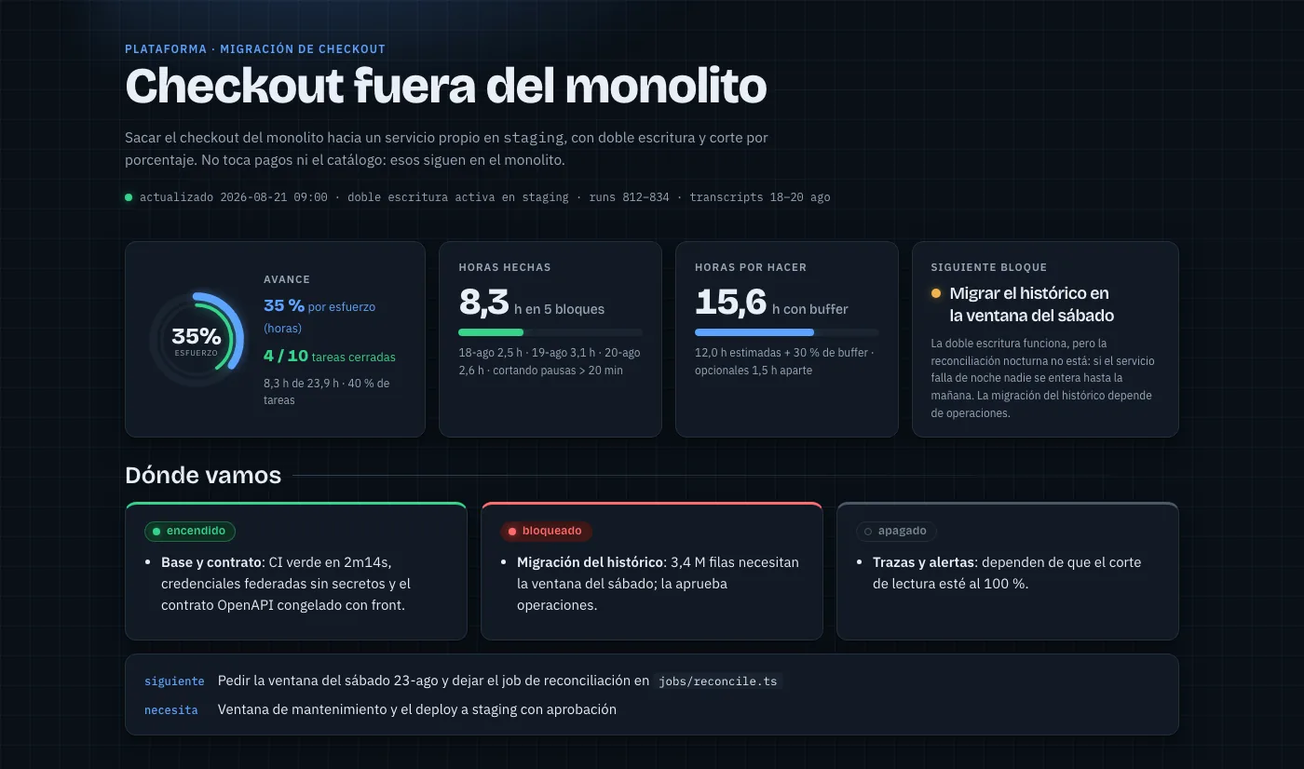
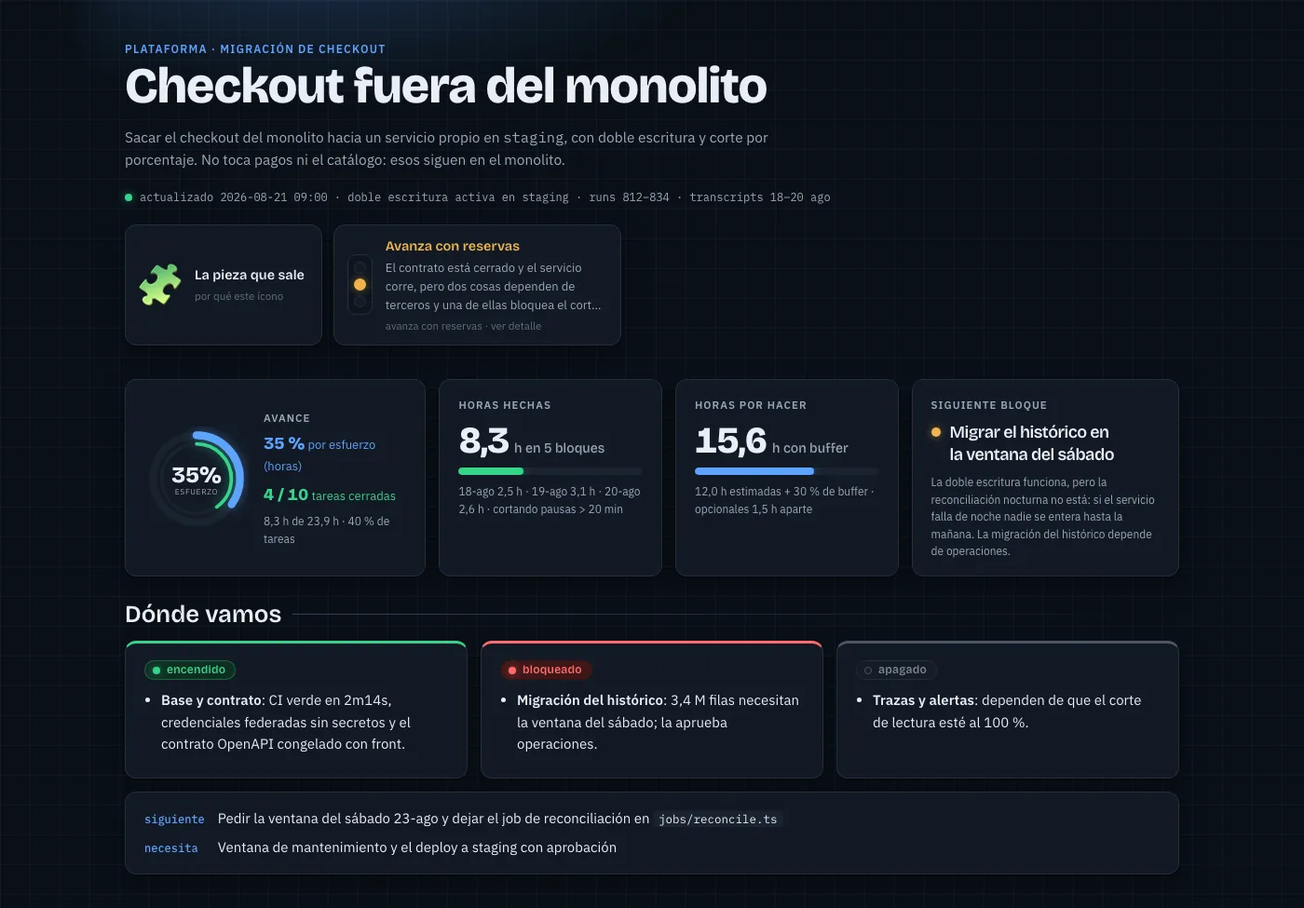
feat(sello): emblema con su porqué y semáforo de contexto en el header

diff --git a/demo/index.html b/demo/index.html
@@ -90,6 +90,47 @@ header.top .sub{color:var(--muted);margin-top:12px;max-width:78ch;font-size:15.5
 .stamp{display:inline-flex;gap:8px;align-items:center;font-size:12px;color:var(--muted);margin-top:10px;font-family:var(--font-mono)}
 .stamp .dot{width:8px;height:8px;border-radius:50%;background:var(--on);box-shadow:0 0 10px var(--on-glow);animation:pulse 2.2s ease-in-out infinite}
 
+/* ---------- sello: emblema y semáforo de contexto ---------- */
+.sello{display:flex;gap:12px;align-items:stretch;flex-wrap:wrap;margin-top:18px}
+.sello button{font:inherit;color:inherit;text-align:left;cursor:pointer;background:var(--surface);border:1px solid var(--line);border-radius:12px;box-shadow:var(--shadow);transition:border-color .2s,transform .15s}
+.sello button:hover{border-color:var(--line-strong)}
+.sello button:active{transform:translateY(1px)}
+.sello button:focus-visible{outline:2px solid var(--accent);outline-offset:2px}
+.emblem{display:flex;align-items:center;gap:14px;padding:12px 18px 12px 14px}
+.emblem .emo{font-size:46px;line-height:1;filter:drop-shadow(0 2px 8px rgba(0,0,0,.25))}
+.emblem .emo-txt{display:flex;flex-direction:column;gap:2px;font-size:13px;color:var(--muted);max-width:26ch}
+.emblem .emo-txt b{font-family:var(--font-display);font-size:14.5px;color:var(--ink);font-weight:600}
+.emblem .emo-txt span{font-size:11.5px;color:var(--faint)}
+.tl{display:flex;align-items:center;gap:14px;padding:12px 18px 12px 14px}
+.lights{display:flex;flex-direction:column;gap:5px;padding:7px 6px;background:var(--bg-2);border:1px solid var(--line);border-radius:9px;flex:none}
+.lights i{width:13px;height:13px;border-radius:50%;background:var(--off-soft);border:1px solid var(--line);transition:background .3s,box-shadow .3s}
+.tl[data-ctx="rojo"] .lights i.r{background:var(--bad);border-color:transparent;box-shadow:0 0 10px var(--bad-glow);animation:blink 1.6s steps(1) infinite}
+.tl[data-ctx="amarillo"] .lights i.y{background:var(--warn);border-color:transparent;box-shadow:0 0 10px var(--warn-glow);animation:pulse 2s ease-in-out infinite}
+.tl[data-ctx="verde"] .lights i.g{background:var(--on);border-color:transparent;box-shadow:0 0 10px var(--on-glow)}
+.tl .tl-txt{display:flex;flex-direction:column;gap:2px;font-size:13px;color:var(--muted);max-width:30ch}
+.tl .tl-txt b{font-family:var(--font-display);font-size:14.5px;font-weight:600}
+.tl[data-ctx="rojo"] .tl-txt b{color:var(--bad)}
+.tl[data-ctx="amarillo"] .tl-txt b{color:var(--warn)}
+.tl[data-ctx="verde"] .tl-txt b{color:var(--on)}
+.tl .tl-txt .rs{font-size:13px;color:var(--muted);display:-webkit-box;-webkit-line-clamp:3;-webkit-box-orient:vertical;overflow:hidden}
+.tl .tl-txt span{font-size:11.5px;color:var(--faint)}
+
+/* ---------- modales ---------- */
+dialog.md{border:1px solid var(--line-strong);background:var(--surface);color:var(--ink);border-radius:14px;padding:0;max-width:640px;width:calc(100% - 32px);box-shadow:0 20px 60px rgba(0,0,0,.45)}
+dialog.md::backdrop{background:rgba(4,8,14,.62);backdrop-filter:blur(3px)}
+dialog.md .md-h{display:flex;align-items:center;gap:14px;padding:20px 22px 12px}
+dialog.md .md-h .emo{font-size:38px;line-height:1}
+dialog.md h3{font-family:var(--font-display);font-size:19px;margin:0}
+dialog.md .md-b{padding:0 22px 6px;color:var(--muted);font-size:14px;line-height:1.6}
+dialog.md .md-b p{max-width:none}
+dialog.md .md-b ul{margin:8px 0 0;padding-left:20px}
+dialog.md .md-b li{margin-bottom:6px}
+dialog.md .md-b .lbl{font-size:11.5px;letter-spacing:.09em;text-transform:uppercase;color:var(--faint);font-weight:600;margin-top:16px;display:block}
+dialog.md .md-f{display:flex;justify-content:flex-end;padding:14px 22px 18px}
+dialog.md .md-f button{font:inherit;font-weight:600;font-size:13.5px;cursor:pointer;background:var(--accent);color:var(--accent-ink);border:0;border-radius:9px;padding:8px 18px}
+dialog.md .md-f button:focus-visible{outline:2px solid var(--accent);outline-offset:2px}
+@media (max-width:560px){.sello{flex-direction:column}.emblem,.tl{width:100%}}
+
 /* ---------- status band ---------- */
 .band{display:grid;grid-template-columns:1.35fr 1fr 1fr 1.2fr;gap:14px;margin:18px 0 26px}
 @media (max-width:980px){.band{grid-template-columns:1fr 1fr}}
@@ -337,7 +378,11 @@ footer code{font-family:var(--font-mono);font-size:12px}
   <h1>Checkout fuera del monolito</h1>
   <p class="sub">Sacar el checkout del monolito hacia un servicio propio en <span class="mono">staging</span>, con doble escritura y corte por porcentaje. No toca pagos ni el catálogo: esos siguen en el monolito.</p>
   <div class="stamp"><span class="dot"></span> actualizado 2026-08-21 09:00 · doble escritura activa en staging · runs 812–834 · transcripts 18–20 ago</div>
+  <div class="sello" id="sello"></div>
 </header>
+
+<dialog class="md" id="dlg-emo" aria-labelledby="dlg-emo-t"></dialog>
+<dialog class="md" id="dlg-ctx" aria-labelledby="dlg-ctx-t"></dialog>
 
 <!-- BANDA: 4 medidores. Orden fijo: avance · hecho · pendiente · foco/riesgo -->
 <div class="band" id="band">
@@ -553,6 +598,26 @@ footer code{font-family:var(--font-mono);font-size:12px}
       {n:'Apagar el módulo del monolito', s:'todo', est:1.5, d:'Borrar código muerto y su tabla tras 14 días estable.'},
     ]},
   ];
+  const EMBLEMA = {
+    emoji:'🧩',
+    titulo:'La pieza que sale',
+    porque:'<p>El checkout es una pieza que estaba encastrada en el monolito y hay que sacarla sin que se caiga el resto. No es una construcción desde cero: es una extracción, con el sistema funcionando mientras se hace.</p><p>Por eso una pieza de puzzle y no un cohete ni un engranaje: lo difícil acá no es la velocidad ni la mecánica, es que el hueco que queda calce con lo que estaba antes.</p>',
+  };
+  const CONTEXTO = {
+    estado:'amarillo',
+    titulo:'Avanza con reservas',
+    resumen:'El contrato está cerrado y el servicio corre, pero dos cosas dependen de terceros y una de ellas bloquea el corte de tráfico.',
+    falta:[
+      '<b>Ventana de mantenimiento del sábado</b> para migrar las 3,4 M filas del histórico: la aprueba operaciones y sin ella no se puede subir el corte del 5 %.',
+      '<b>Umbrales de alerta acordados con el equipo de guardia</b>: hay propuesta (1 % de error, p95 400 ms) pero nadie la confirmó.',
+      '<b>Decisión sobre el caché de catálogo en el borde</b>: está marcado como opcional, y mientras no se decida sigue apareciendo en cada planificación.',
+    ],
+    hay:[
+      'El contrato del API está congelado y revisado con el equipo de front: 14 endpoints, OpenAPI 3.1.',
+      'Credenciales federadas y CI verde: nadie está esperando accesos.',
+      'El plan de corte está definido: feature flag por porcentaje, 5 % → 50 % → 100 %.',
+    ],
+  };
   const SESSIONS = [
     {label:'lun 18-ago', date:'2026-08-18', blocks:[{s:'09:10', e:'11:40', k:'on', t:'contrato del API y revisión con front'}]},
     {label:'mar 19-ago', date:'2026-08-19', blocks:[{s:'09:00', e:'10:30', k:'on', t:'CI y credenciales federadas'},{s:'21:15', e:'22:50', k:'late', t:'doble escritura, primera versión'}]},
@@ -735,6 +800,35 @@ footer code{font-family:var(--font-mono);font-size:12px}
   $('#v-hoy').addEventListener('click',()=>setView(false));
   $('#v-meta').addEventListener('click',()=>setView(true));
 
+  // ---------- sello: emblema y semáforo de contexto ----------
+  const CTX_LABEL={rojo:'faltan definiciones',amarillo:'avanza con reservas',verde:'contexto completo'};
+  function renderSello(){
+    const host=$('#sello'); if(!host)return;
+    host.innerHTML=
+      '<button class="emblem" id="btn-emo" aria-haspopup="dialog"><span class="emo">'+EMBLEMA.emoji+'</span>'+
+      '<span class="emo-txt"><b>'+EMBLEMA.titulo+'</b><span>por qué este ícono</span></span></button>'+
+      '<button class="tl" id="btn-ctx" data-ctx="'+CONTEXTO.estado+'" aria-haspopup="dialog">'+
+      '<span class="lights" aria-hidden="true"><i class="r"></i><i class="y"></i><i class="g"></i></span>'+
+      '<span class="tl-txt"><b>'+CONTEXTO.titulo+'</b><span class="rs">'+CONTEXTO.resumen+'</span><span>'+CTX_LABEL[CONTEXTO.estado]+' · ver detalle</span></span></button>';
+    const dE=$('#dlg-emo'), dC=$('#dlg-ctx');
+    dE.innerHTML='<div class="md-h"><span class="emo">'+EMBLEMA.emoji+'</span><h3 id="dlg-emo-t">'+EMBLEMA.titulo+'</h3></div>'+
+      '<div class="md-b">'+EMBLEMA.porque+'</div><div class="md-f"><button data-close>Entendido</button></div>';
+    const li=a=>(a||[]).map(x=>'<li>'+x+'</li>').join('');
+    dC.innerHTML='<div class="md-h"><span class="emo">'+({rojo:'🔴',amarillo:'🟡',verde:'🟢'}[CONTEXTO.estado]||'⚪')+'</span><h3 id="dlg-ctx-t">'+CONTEXTO.titulo+'</h3></div>'+
+      '<div class="md-b"><p>'+CONTEXTO.resumen+'</p>'+
+      (CONTEXTO.falta&&CONTEXTO.falta.length?'<span class="lbl">Falta para poder cerrar</span><ul>'+li(CONTEXTO.falta)+'</ul>':'')+
+      (CONTEXTO.hay&&CONTEXTO.hay.length?'<span class="lbl">Ya resuelto</span><ul>'+li(CONTEXTO.hay)+'</ul>':'')+
+      '</div><div class="md-f"><button data-close>Cerrar</button></div>';
+    const open=d=>{ if(d.showModal)d.showModal(); else d.setAttribute('open','') };
+    $('#btn-emo').addEventListener('click',()=>open(dE));
+    $('#btn-ctx').addEventListener('click',()=>open(dC));
+    [dE,dC].forEach(d=>{
+      d.querySelector('[data-close]').addEventListener('click',()=>d.close?d.close():d.removeAttribute('open'));
+      // clic en el fondo cierra, como espera cualquiera
+      d.addEventListener('click',e=>{ if(e.target===d)d.close&&d.close() });
+    });
+  }
+
   // ---------- diagram: detalle por componente ----------
   function wireBoxes(){
     const box=$('#diagram-info'); if(!box)return;
@@ -785,7 +879,7 @@ footer code{font-family:var(--font-mono);font-size:12px}
 
   // ---------- init ----------
   ['hpd','days','start','blockstart','buffer','rate'].forEach(id=>{const el=$('#'+id);const v=load(id,null);if(v!==null)el.value=v;el.addEventListener('input',()=>{store(id,el.value);renderMeters();renderGantt()})});
-  decorateDiagram(); wireBoxes(); if(load('view','hoy')==='meta')setView(true);
+  renderSello(); decorateDiagram(); wireBoxes(); if(load('view','hoy')==='meta')setView(true);
   renderPhases(); renderGantt(); observe(); idle();
   setTimeout(renderMeters,150);
 })();

diff --git a/skills/tablero/assets/template.html b/skills/tablero/assets/template.html
@@ -82,6 +82,47 @@ header.top .sub{color:var(--muted);margin-top:12px;max-width:78ch;font-size:15.5
 .stamp{display:inline-flex;gap:8px;align-items:center;font-size:12px;color:var(--muted);margin-top:10px;font-family:var(--font-mono)}
 .stamp .dot{width:8px;height:8px;border-radius:50%;background:var(--on);box-shadow:0 0 10px var(--on-glow);animation:pulse 2.2s ease-in-out infinite}
 
+/* ---------- sello: emblema y semáforo de contexto ---------- */
+.sello{display:flex;gap:12px;align-items:stretch;flex-wrap:wrap;margin-top:18px}
+.sello button{font:inherit;color:inherit;text-align:left;cursor:pointer;background:var(--surface);border:1px solid var(--line);border-radius:12px;box-shadow:var(--shadow);transition:border-color .2s,transform .15s}
+.sello button:hover{border-color:var(--line-strong)}
+.sello button:active{transform:translateY(1px)}
+.sello button:focus-visible{outline:2px solid var(--accent);outline-offset:2px}
+.emblem{display:flex;align-items:center;gap:14px;padding:12px 18px 12px 14px}
+.emblem .emo{font-size:46px;line-height:1;filter:drop-shadow(0 2px 8px rgba(0,0,0,.25))}
+.emblem .emo-txt{display:flex;flex-direction:column;gap:2px;font-size:13px;color:var(--muted);max-width:26ch}
+.emblem .emo-txt b{font-family:var(--font-display);font-size:14.5px;color:var(--ink);font-weight:600}
+.emblem .emo-txt span{font-size:11.5px;color:var(--faint)}
+.tl{display:flex;align-items:center;gap:14px;padding:12px 18px 12px 14px}
+.lights{display:flex;flex-direction:column;gap:5px;padding:7px 6px;background:var(--bg-2);border:1px solid var(--line);border-radius:9px;flex:none}
+.lights i{width:13px;height:13px;border-radius:50%;background:var(--off-soft);border:1px solid var(--line);transition:background .3s,box-shadow .3s}
+.tl[data-ctx="rojo"] .lights i.r{background:var(--bad);border-color:transparent;box-shadow:0 0 10px var(--bad-glow);animation:blink 1.6s steps(1) infinite}
+.tl[data-ctx="amarillo"] .lights i.y{background:var(--warn);border-color:transparent;box-shadow:0 0 10px var(--warn-glow);animation:pulse 2s ease-in-out infinite}
+.tl[data-ctx="verde"] .lights i.g{background:var(--on);border-color:transparent;box-shadow:0 0 10px var(--on-glow)}
+.tl .tl-txt{display:flex;flex-direction:column;gap:2px;font-size:13px;color:var(--muted);max-width:30ch}
+.tl .tl-txt b{font-family:var(--font-display);font-size:14.5px;font-weight:600}
+.tl[data-ctx="rojo"] .tl-txt b{color:var(--bad)}
+.tl[data-ctx="amarillo"] .tl-txt b{color:var(--warn)}
+.tl[data-ctx="verde"] .tl-txt b{color:var(--on)}
+.tl .tl-txt .rs{font-size:13px;color:var(--muted);display:-webkit-box;-webkit-line-clamp:3;-webkit-box-orient:vertical;overflow:hidden}
+.tl .tl-txt span{font-size:11.5px;color:var(--faint)}
+
+/* ---------- modales ---------- */
+dialog.md{border:1px solid var(--line-strong);background:var(--surface);color:var(--ink);border-radius:14px;padding:0;max-width:640px;width:calc(100% - 32px);box-shadow:0 20px 60px rgba(0,0,0,.45)}
+dialog.md::backdrop{background:rgba(4,8,14,.62);backdrop-filter:blur(3px)}
+dialog.md .md-h{display:flex;align-items:center;gap:14px;padding:20px 22px 12px}
+dialog.md .md-h .emo{font-size:38px;line-height:1}
+dialog.md h3{font-family:var(--font-display);font-size:19px;margin:0}
+dialog.md .md-b{padding:0 22px 6px;color:var(--muted);font-size:14px;line-height:1.6}
+dialog.md .md-b p{max-width:none}
+dialog.md .md-b ul{margin:8px 0 0;padding-left:20px}
+dialog.md .md-b li{margin-bottom:6px}
+dialog.md .md-b .lbl{font-size:11.5px;letter-spacing:.09em;text-transform:uppercase;color:var(--faint);font-weight:600;margin-top:16px;display:block}
+dialog.md .md-f{display:flex;justify-content:flex-end;padding:14px 22px 18px}
+dialog.md .md-f button{font:inherit;font-weight:600;font-size:13.5px;cursor:pointer;background:var(--accent);color:var(--accent-ink);border:0;border-radius:9px;padding:8px 18px}
+dialog.md .md-f button:focus-visible{outline:2px solid var(--accent);outline-offset:2px}
+@media (max-width:560px){.sello{flex-direction:column}.emblem,.tl{width:100%}}
+
 /* ---------- status band ---------- */
 .band{display:grid;grid-template-columns:1.35fr 1fr 1fr 1.2fr;gap:14px;margin:18px 0 26px}
 @media (max-width:980px){.band{grid-template-columns:1fr 1fr}}
@@ -329,7 +370,12 @@ footer code{font-family:var(--font-mono);font-size:12px}
   <h1>{{TITULO}}</h1>
   <p class="sub">{{Una frase: qué es esto, dónde corre, qué NO toca. Nombres propios en <span class="mono">mono</span>.}}</p>
   <div class="stamp"><span class="dot"></span> actualizado {{AAAA-MM-DD HH:MM}} · {{hito vivo}} · {{fuentes: transcripts, az CLI, runs}}</div>
+  <!-- El sello se rellena desde EMBLEMA y CONTEXTO; no lo escribas a mano. -->
+  <div class="sello" id="sello"></div>
 </header>
+
+<dialog class="md" id="dlg-emo" aria-labelledby="dlg-emo-t"></dialog>
+<dialog class="md" id="dlg-ctx" aria-labelledby="dlg-ctx-t"></dialog>
 
 <!-- BANDA: 4 medidores. Orden fijo: avance · hecho · pendiente · foco/riesgo -->
 <div class="band" id="band">
@@ -505,6 +551,24 @@ footer code{font-family:var(--font-mono);font-size:12px}
       {n:'{{Mejora opcional}}', s:'opt', est:1, d:'{{No cuenta para el porcentaje.}}'},
     ]},
   ];
+  // El emoji del tablero: el mismo que el favicon. Elige uno que signifique algo del proyecto
+  // y explica la elección en 'porque' — al tocarlo se abre esa explicación.
+  const EMBLEMA = {
+    emoji:'{{🚦}}',
+    titulo:'{{Nombre del emblema, 2-4 palabras}}',
+    porque:'<p>{{Por qué este emoji y no otro: qué representa del proyecto. Una o dos frases.}}</p>',
+  };
+  // Semáforo de contexto. NO mide avance: mide si se puede seguir sin depender de nadie.
+  //   verde    = está todo lo necesario, solo faltan horas
+  //   amarillo = se puede avanzar, pero hay definiciones abiertas que van a frenar
+  //   rojo     = falta información o decisiones sin las cuales el proyecto no cierra
+  const CONTEXTO = {
+    estado:'{{rojo|amarillo|verde}}',
+    titulo:'{{Veredicto en 2-4 palabras}}',
+    resumen:'{{Una frase: por qué está en ese color}}',
+    falta:['{{Qué falta y de quién depende — sé concreto: persona, decisión, insumo}}'],
+    hay:['{{Qué sí está resuelto y no hay que volver a discutir}}'],
+  };
   // Bloques reales de sesión (cortando pausas > 20 min). k: on (horario normal) | late (nocturno) | cut (interrumpido)
   const SESSIONS = [
     {label:'{{lun 24-ago}}', date:'2026-08-24', blocks:[{s:'19:52', e:'22:50', k:'late', t:'{{qué se hizo}}'}]},
@@ -681,6 +745,35 @@ footer code{font-family:var(--font-mono);font-size:12px}
   $('#v-hoy').addEventListener('click',()=>setView(false));
   $('#v-meta').addEventListener('click',()=>setView(true));
 
+  // ---------- sello: emblema y semáforo de contexto ----------
+  const CTX_LABEL={rojo:'faltan definiciones',amarillo:'avanza con reservas',verde:'contexto completo'};
+  function renderSello(){
+    const host=$('#sello'); if(!host)return;
+    host.innerHTML=
+      '<button class="emblem" id="btn-emo" aria-haspopup="dialog"><span class="emo">'+EMBLEMA.emoji+'</span>'+
+      '<span class="emo-txt"><b>'+EMBLEMA.titulo+'</b><span>por qué este ícono</span></span></button>'+
+      '<button class="tl" id="btn-ctx" data-ctx="'+CONTEXTO.estado+'" aria-haspopup="dialog">'+
+      '<span class="lights" aria-hidden="true"><i class="r"></i><i class="y"></i><i class="g"></i></span>'+
+      '<span class="tl-txt"><b>'+CONTEXTO.titulo+'</b><span class="rs">'+CONTEXTO.resumen+'</span><span>'+CTX_LABEL[CONTEXTO.estado]+' · ver detalle</span></span></button>';
+    const dE=$('#dlg-emo'), dC=$('#dlg-ctx');
+    dE.innerHTML='<div class="md-h"><span class="emo">'+EMBLEMA.emoji+'</span><h3 id="dlg-emo-t">'+EMBLEMA.titulo+'</h3></div>'+
+      '<div class="md-b">'+EMBLEMA.porque+'</div><div class="md-f"><button data-close>Entendido</button></div>';
+    const li=a=>(a||[]).map(x=>'<li>'+x+'</li>').join('');
+    dC.innerHTML='<div class="md-h"><span class="emo">'+({rojo:'🔴',amarillo:'🟡',verde:'🟢'}[CONTEXTO.estado]||'⚪')+'</span><h3 id="dlg-ctx-t">'+CONTEXTO.titulo+'</h3></div>'+
+      '<div class="md-b"><p>'+CONTEXTO.resumen+'</p>'+
+      (CONTEXTO.falta&&CONTEXTO.falta.length?'<span class="lbl">Falta para poder cerrar</span><ul>'+li(CONTEXTO.falta)+'</ul>':'')+
+      (CONTEXTO.hay&&CONTEXTO.hay.length?'<span class="lbl">Ya resuelto</span><ul>'+li(CONTEXTO.hay)+'</ul>':'')+
+      '</div><div class="md-f"><button data-close>Cerrar</button></div>';
+    const open=d=>{ if(d.showModal)d.showModal(); else d.setAttribute('open','') };
+    $('#btn-emo').addEventListener('click',()=>open(dE));
+    $('#btn-ctx').addEventListener('click',()=>open(dC));
+    [dE,dC].forEach(d=>{
+      d.querySelector('[data-close]').addEventListener('click',()=>d.close?d.close():d.removeAttribute('open'));
+      // clic en el fondo cierra, como espera cualquiera
+      d.addEventListener('click',e=>{ if(e.target===d)d.close&&d.close() });
+    });
+  }
+
   // ---------- diagram: detalle por componente ----------
   function wireBoxes(){
     const box=$('#diagram-info'); if(!box)return;
@@ -731,7 +824,7 @@ footer code{font-family:var(--font-mono);font-size:12px}
 
   // ---------- init ----------
   ['hpd','days','start','blockstart','buffer','rate'].forEach(id=>{const el=$('#'+id);const v=load(id,null);if(v!==null)el.value=v;el.addEventListener('input',()=>{store(id,el.value);renderMeters();renderGantt()})});
-  decorateDiagram(); wireBoxes(); if(load('view','hoy')==='meta')setView(true);
+  renderSello(); decorateDiagram(); wireBoxes(); if(load('view','hoy')==='meta')setView(true);
   renderPhases(); renderGantt(); observe(); idle();
   setTimeout(renderMeters,150);
 })();

diff --git a/skills/tablero/SKILL.md b/skills/tablero/SKILL.md
@@ -20,6 +20,8 @@ Do NOT load for a one-line status answer, a commit log summary, or a plain check
 - `Σ act` across `PHASES` must match total `SESSIONS` hours within 0,5 h. Reconcile the data before publishing; never adjust one side to hide the gap.
 - Costs are incremental: only what is new. Name the price source and date, and list what is excluded because it was already paid.
 - Never invent qualitative claims about rhythm or productivity. `EVAL_EXTRA` entries need a time and a result.
+- `CONTEXTO.estado` measures whether the project can proceed unblocked, NOT how much is done. Green only when nothing but hours is missing; red when a decision, credential or answer someone else owes is what stands in the way. Every `falta` entry names the owner or the input it waits on.
+- `EMBLEMA.emoji` must match the artifact `favicon`, and `porque` must justify the choice in two sentences. If you cannot, pick a different emoji.
 - Do not edit the CSS in `assets/template.html`: the palette, typography and motion ARE the format. Extend by adding sections, not by restyling.
 - If you add movement, follow the performance rules in `references/design-system.md`: nothing animates off-screen, nothing that moves carries a `drop-shadow`, and a re-render is not a re-animation.
 - Keep the footer `.brand` block: logo slot + credit line + MIT link.
@@ -51,7 +53,7 @@ Do NOT load for a one-line status answer, a commit log summary, or a plain check
 1. Gather evidence first. Read the primary sources; list what you could NOT verify.
 2. Copy `assets/template.html` to the working file (scratchpad, or where the user asks). For a local file, wrap it with `assets/local-wrapper.html` — the template is a fragment and only the Artifact tool supplies the html/head/body shell.
 3. When updating an existing tablero: read the live version FIRST, diff it against your evidence, and keep every fact it has that you did not re-verify. Publish only additions and corrections you can source.
-4. Fill the `// ---------- data ----------` block only: `PHASES`, `SESSIONS`, `COSTS`, `DONE_BARS`, `TODAY`, `PHASE_ORDER`, `COST_NOTE`, `EVAL_RECO`, `EVAL_EXTRA`. See `references/data-contract.md`.
+4. Fill the `// ---------- data ----------` block only: `EMBLEMA`, `CONTEXTO`, `PHASES`, `SESSIONS`, `COSTS`, `DONE_BARS`, `TODAY`, `PHASE_ORDER`, `COST_NOTE`, `EVAL_RECO`, `EVAL_EXTRA`. See `references/data-contract.md`.
 5. Replace every `{{...}}` placeholder in the HTML. Search for `{{` and confirm zero matches before publishing.
 6. Adjust the diagram per `references/sections.md`; the LED, packets and power-on view are injected by JS — only author `<g data-s>`, `<path class="edge">`, `<rect class="zone">`. Give every component a `data-title` and a `data-info` explaining what it is and why it sits in that state: that is what the reader gets when tapping the box.
 7. Open the local file to verify it renders before handing it over. Fonts come from Google Fonts and need network; the fallback stack must keep it readable offline.

diff --git a/README.md b/README.md
@@ -21,7 +21,8 @@
 
 Le pides el estado de un proyecto y publica una página con:
 
-- **Cuatro medidores** arriba: avance por esfuerzo y por tareas, horas hechas, horas por hacer con buffer, y el foco o bloqueo del momento.
+- **Un emblema y un semáforo de contexto**: el emoji del proyecto explica por qué se eligió, y el semáforo dice si se puede avanzar sin depender de nadie — verde solo si lo único que falta son horas.
+- **Cuatro medidores**: avance por esfuerzo y por tareas, horas hechas, horas por hacer con buffer, y el foco o bloqueo del momento.
 - **Dónde vamos** en tres columnas: encendido · bloqueado · apagado, y la acción concreta que sigue.
 - **Un diagrama** donde cada componente está literalmente encendido, parcial o apagado, con paquetes viajando por las conexiones vivas. Cada caja se puede tocar para leer qué es y por qué está así, y un toggle *Meta* enciende todo para mostrar hacia dónde va.
 - **Backlog** en fases plegables, con horas hechas y estimadas por tarea.
@@ -39,7 +40,11 @@ Las capturas de abajo salen de ahí.
 
 ![Encabezado, medidores y dónde vamos](docs/img/hero-dark.webp)
 
-*Arriba: los cuatro medidores y las tres columnas de estado. Todo se calcula desde un único bloque de datos.*
+*Arriba: el emblema del proyecto, el semáforo de contexto, los cuatro medidores y las tres columnas de estado. Todo se calcula desde un único bloque de datos.*
+
+![Modal del semáforo de contexto](docs/img/contexto.webp)
+
+*El semáforo no mide avance: mide si se puede seguir sin depender de nadie. Verde es "solo faltan horas"; rojo es "falta que alguien decida". Al tocarlo lista qué falta, con dueño, y qué ya está resuelto. El emoji de al lado explica por qué se eligió ese ícono y no otro.*
 
 ![Diagrama de arquitectura con estado por componente](docs/img/diagrama-dark.webp)
 

diff --git a/skills/tablero/references/sections.md b/skills/tablero/references/sections.md
@@ -8,6 +8,19 @@ Eyebrow (contexto: sub-proyecto, cliente, área) · H1 (nombre corto, no una fra
 
 El `stamp` es la firma del dato: sin fecha y fuentes, el tablero no se publica.
 
+Debajo va el **sello**, dos botones que se rellenan solos desde `EMBLEMA` y `CONTEXTO`:
+
+- **El emblema** — el mismo emoji que el favicon, en grande. Al tocarlo se abre una modal que explica por qué ese emoji y no otro: qué del proyecto representa. Elige uno que signifique algo (una pieza que se extrae, un semáforo, una carretera), no un adorno; si no puedes explicar la elección en dos frases, el emoji está mal elegido.
+- **El semáforo de contexto** — tres luces, una encendida. **No mide avance**: mide si se puede seguir sin depender de nadie. Al tocarlo, la modal lista qué falta y qué ya está resuelto.
+
+| Luz | Significa |
+|---|---|
+| 🟢 verde | Está todo lo necesario para llegar al final. Solo faltan horas. |
+| 🟡 amarillo | Se puede avanzar, pero hay definiciones abiertas que van a frenar. |
+| 🔴 rojo | Falta información o decisiones sin las cuales el proyecto no cierra. |
+
+La distinción que hace útil al semáforo es **falta trabajo** contra **falta que alguien decida**. Un proyecto con 20 h por delante y todo definido está en verde; uno con 2 h por delante pero esperando una credencial que nadie rota está en rojo. Cada punto de `falta` nombra a quién o a qué espera: sin dueño, no es un pendiente, es una queja.
+
 ## 2. Banda de medidores (4, orden fijo)
 
 1. Anillo doble: avance por esfuerzo (arco grueso) y por tareas (arco fino).

diff --git a/skills/tablero/references/data-contract.md b/skills/tablero/references/data-contract.md
@@ -45,6 +45,23 @@ Corta pausas mayores a 20 min: dos bloques, no uno largo. La honestidad del tabl
 
 Solo lo **incremental**. `COST_NOTE` dice qué queda fuera y por qué. La `.callout` de la sección nombra la palanca: qué línea domina y cómo se acota.
 
+## EMBLEMA · CONTEXTO
+
+```js
+const EMBLEMA = {emoji:'🧩', titulo:'La pieza que sale', porque:'<p>…</p>'};
+const CONTEXTO = {
+  estado:'amarillo',              // rojo | amarillo | verde
+  titulo:'Avanza con reservas',
+  resumen:'Una frase con el porqué del color',
+  falta:['Qué falta y de quién depende'],
+  hay:['Qué ya está resuelto y no hay que volver a discutir'],
+};
+```
+
+`emoji` es el mismo del favicon del artefacto, para que la pestaña y la página digan lo mismo. `porque` acepta HTML y responde una sola pregunta: por qué ese emoji representa a este proyecto.
+
+`estado` no es el avance: es si se puede seguir sin depender de nadie. Verde solo si lo único que falta son horas. Cada entrada de `falta` nombra al dueño o al insumo; si no lo tiene, no es accionable y no va.
+
 ## DONE_BARS · TODAY · PHASE_ORDER
 
 - `DONE_BARS`: barras verdes del Gantt, trabajo ya hecho. `{name, s:'AAAA-MM-DD', e:'AAAA-MM-DD'}`.
